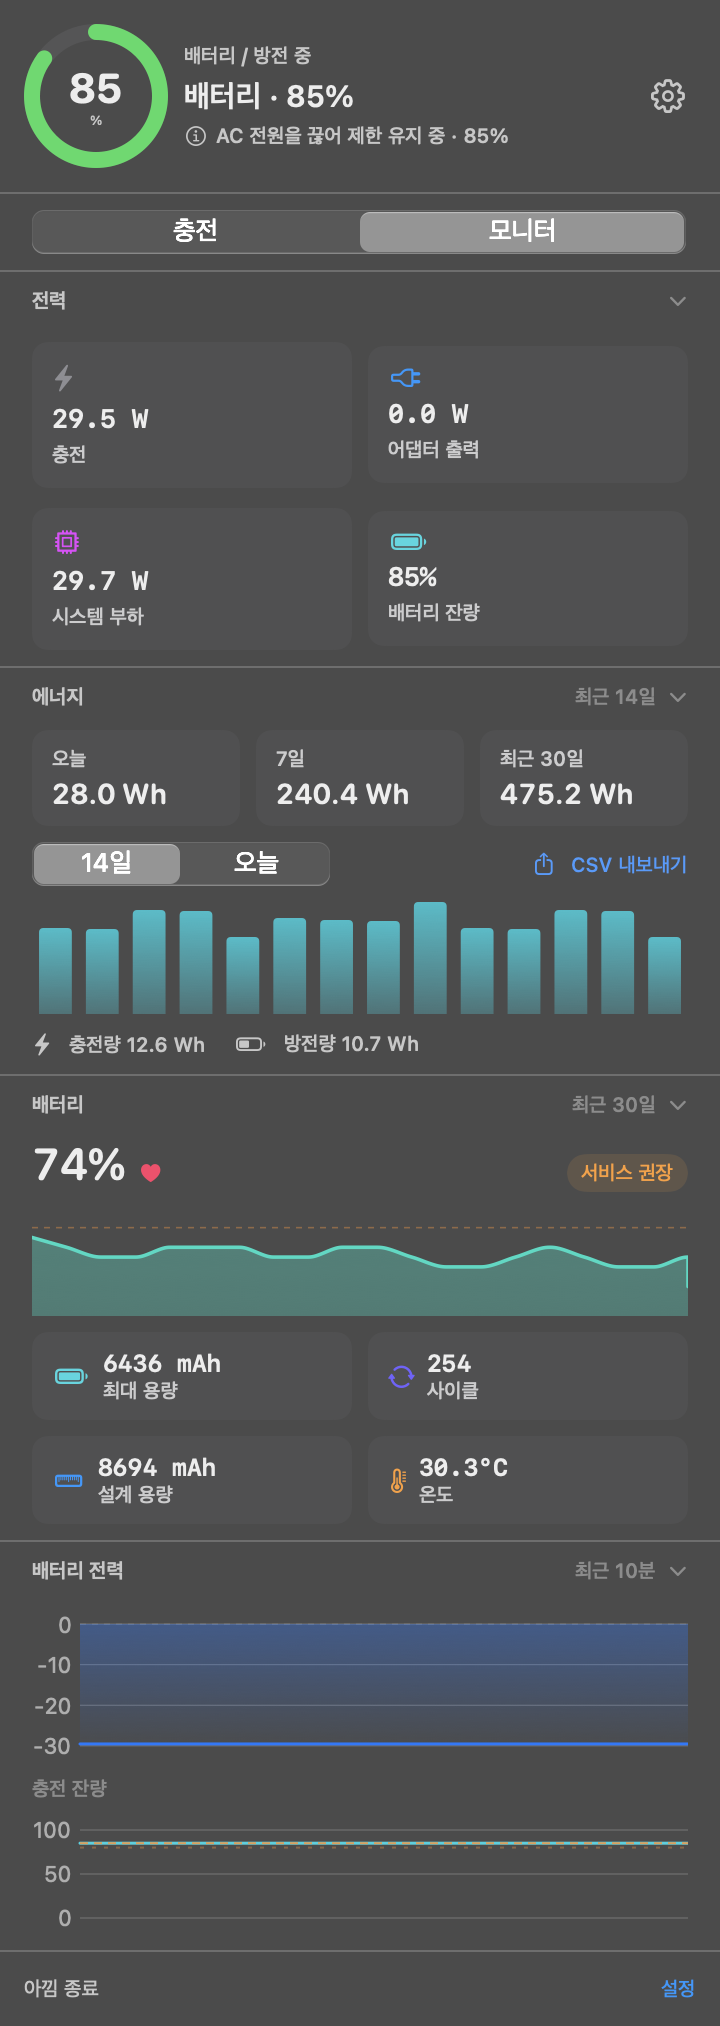
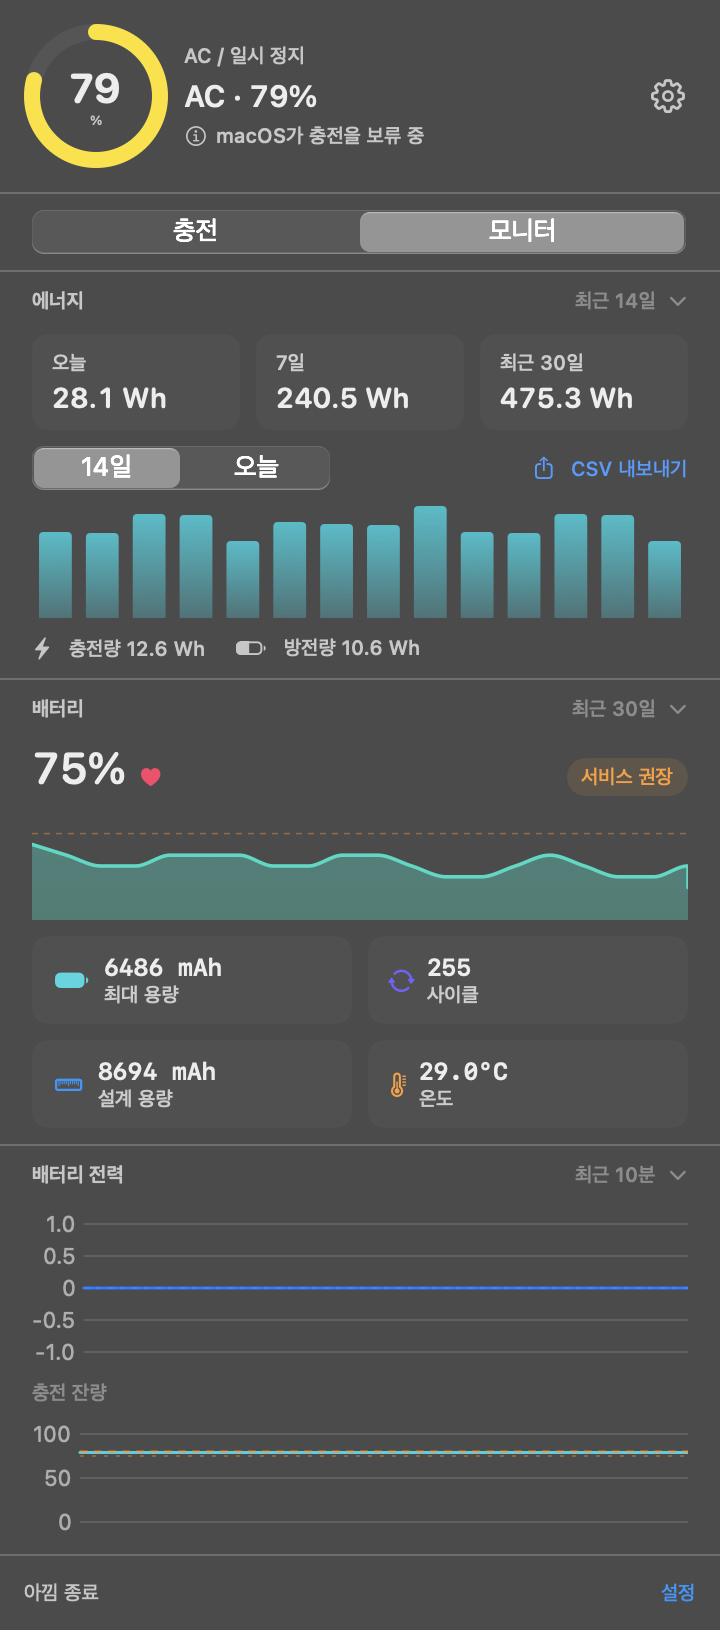
Move battery power section to Charge tab; v1.5.3

diff --git a/Sources/Akkim/MenuBarPanel.swift b/Sources/Akkim/MenuBarPanel.swift
@@ -24,22 +24,25 @@ struct MenuBarPanel: View {
 
             switch settings.panelTab {
             case .charge:
-                if settings.isSectionVisible(.limit) {
-                    chargeLimitSection
-                    Divider()
-                } else {
-                    sectionsHiddenHint
-                }
-            case .monitor:
-                let monitorVisible = settings.isSectionVisible(.power)
-                    || settings.isSectionVisible(.energy)
-                    || settings.isSectionVisible(.health)
-                    || settings.isSectionVisible(.history)
-                if monitorVisible {
+                let chargeVisible = settings.isSectionVisible(.limit)
+                    || settings.isSectionVisible(.power)
+                if chargeVisible {
+                    if settings.isSectionVisible(.limit) {
+                        chargeLimitSection
+                        Divider()
+                    }
                     if settings.isSectionVisible(.power) {
                         metricsSection
                         Divider()
                     }
+                } else {
+                    sectionsHiddenHint
+                }
+            case .monitor:
+                let monitorVisible = settings.isSectionVisible(.energy)
+                    || settings.isSectionVisible(.health)
+                    || settings.isSectionVisible(.history)
+                if monitorVisible {
                     if settings.isSectionVisible(.energy) {
                         energySection
                         Divider()

diff --git a/Sources/Akkim/StatusBarController.swift b/Sources/Akkim/StatusBarController.swift
@@ -197,8 +197,13 @@ final class StatusBarController: NSObject, NSPopoverDelegate {
         guard let view = popover.contentViewController?.view else { return }
         view.layoutSubtreeIfNeeded()
         let maxHeight = (NSScreen.main?.visibleFrame.height ?? 900) - 40
-        // Charts report a slightly small fitting size; give the monitor tab more room.
-        let extra: CGFloat = settings.panelTab == .monitor ? 180 : 40
+        // Charts and metric grids report a slightly small fitting size.
+        let extra: CGFloat
+        if settings.panelTab == .monitor {
+            extra = 180
+        } else {
+            extra = settings.isSectionVisible(.power) ? 170 : 40
+        }
         let measured = view.fittingSize.height + extra
         let height = min(max(measured, 300), maxHeight)
         popover.contentSize = NSSize(width: 360, height: height)

diff --git a/docs/HANDOVER.md b/docs/HANDOVER.md
@@ -463,6 +463,12 @@ battery-limit/
 - AlDente Pro가 실행 중이면 설정에 충돌 경고를 표시합니다
   (`NSWorkspace.runningApplications`의 bundle id에 `aldente` 포함 여부).
 
+### 5.17 패널 전력 섹션을 충전 탭으로 이동 (2026-11-04)
+
+- 패널 **충전** 탭: 충전 제한 → 전력(충전/어댑터/시스템/잔량) 순서.
+- 패널 **모니터** 탭: 에너지 사용량 · 배터리 건강도 · 최근 차트.
+- 팝오버 높이 계산에 충전 탭의 전력 그리드 높이를 반영했습니다.
+
 ---
 
 ## 6. 실기기 테스트 체크리스트
@@ -680,7 +686,7 @@ EOF
 ### 9.2 저장소/배포
 
 - [x] 릴리스 워크플로 추가 (`.github/workflows/release.yml`, 태그 `v*` → zip + Release)
-- [x] 앱 버전 `CFBundleShortVersionString 1.5.2` / `CFBundleVersion 13`
+- [x] 앱 버전 `CFBundleShortVersionString 1.5.3` / `CFBundleVersion 14`
 - [x] `git init` 및 `https://github.com/karanglass24-lang/akkim` push
 - [ ] 폴더명 `battery-limit` → `akkim` 정리 (선택)
 - [x] 태그 푸시(`v1.0.0`, `v1.0.1`) 후 Release 자산(`Akkim.zip`, `.sha256`) 확인

diff --git a/docs/MANUAL.md b/docs/MANUAL.md
@@ -45,8 +45,9 @@ tail -n 20 /var/log/akkim-helper.log
 
 패널 상단에는 **충전 / 모니터** 두 탭이 있습니다.
 
-- **충전**: 충전 제한 사용, 80/85/90/95/100%, 만충전, 세일링, 방전
-- **모니터**: 전력, 에너지 사용량, 배터리 건강도, 최근 전력/잔량 차트
+- **충전**: 충전 제한 사용, 80/85/90/95/100%, 만충전, 세일링, 방전, 배터리 전력
+  (충전 W · 어댑터 출력 W · 시스템 부하 W · 배터리 잔량)
+- **모니터**: 에너지 사용량, 배터리 건강도, 최근 전력/잔량 차트
 
 ### 메뉴바
 

diff --git a/README.md b/README.md
@@ -48,6 +48,7 @@ The `release` workflow builds on a macOS runner, verifies the bundle, zips it as
 - Menu bar status item + modern popover panel
 - Live status (charging / AC-paused / discharging / desktop)
 - Real-time charging power (W), wall output (W), system load (W), battery level (%)
+  on the Charge tab
 - Circular battery gauge with charging animation
 - **Battery health**: health %, max/design capacity, cycle count, temperature,
   condition, and a 30-day health trend persisted between launches
